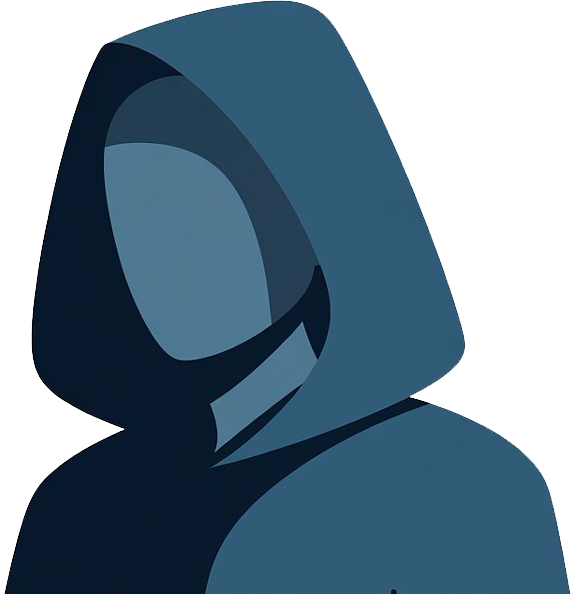
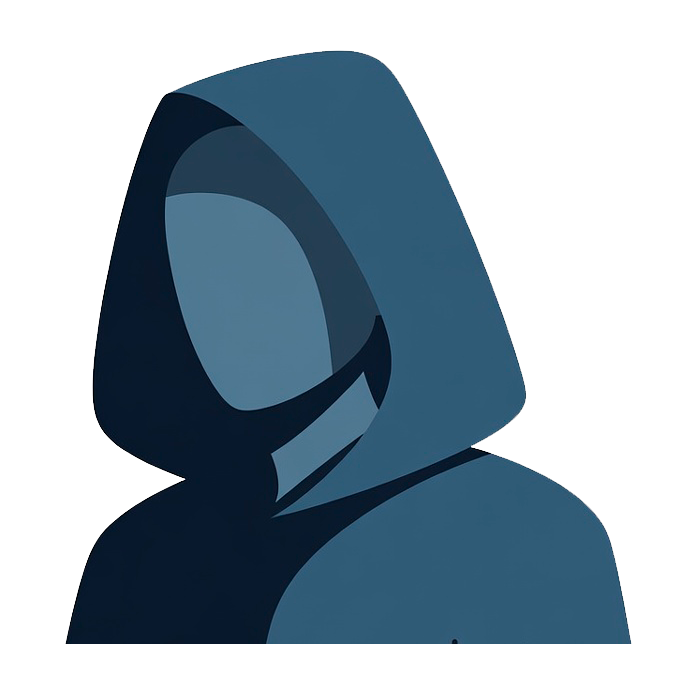
square png

Changed region(s): [[0.0, 0.0, 1.0, 1.0], [0.4458, 0.3939, 0.4755, 0.5152]]

diff --git a/Resistance/resist_png/square.py b/Resistance/resist_png/square.py
@@ -1,0 +1,74 @@
+import os
+from PIL import Image
+
+def process_image(input_path, output_path):
+    """
+    Обрабатывает одно изображение:
+    - К самой длинной грани +100 пикселей (по 50 с каждой стороны)
+    - Затем дополняет до квадрата по второй оси (равномерно с двух сторон)
+    """
+    with Image.open(input_path) as img:
+        # Конвертируем в RGBA для прозрачности
+        if img.mode != 'RGBA':
+            img = img.convert('RGBA')
+        
+        width, height = img.size
+        
+        # Определяем самую длинную грань
+        if width >= height:
+            # Широкая: +50 слева/справа (new_width = width + 100)
+            new_width = width + 100
+            side_size = new_width  # Квадрат по ширине
+            new_height = side_size
+            pad_left = 50
+            pad_right = 50
+            pad_top = (new_height - height) // 2
+            pad_bottom = new_height - height - pad_top
+        else:
+            # Высокая: +50 сверху/снизу (new_height = height + 100)
+            new_height = height + 100
+            side_size = new_height  # Квадрат по высоте
+            new_width = side_size
+            pad_top = 50
+            pad_bottom = 50
+            pad_left = (new_width - width) // 2
+            pad_right = new_width - width - pad_left
+        
+        # Новый прозрачный холст
+        new_img = Image.new('RGBA', (new_width, new_height), (0, 0, 0, 0))
+        
+        # Вставляем оригинал
+        new_img.paste(img, (pad_left, pad_top))
+        
+        # Сохраняем с оптимизацией
+        new_img.save(output_path, 'PNG', optimize=True)
+
+def main():
+    current_dir = os.getcwd()
+    padded_dir = os.path.join(current_dir, "padded")
+    
+    # Создаем папку padded если её нет
+    os.makedirs(padded_dir, exist_ok=True)
+    
+    png_files = [f for f in os.listdir(current_dir) if f.lower().endswith('.png')]
+    
+    if not png_files:
+        print("PNG-файлы в текущей директории не найдены.")
+        return
+    
+    processed = 0
+    for filename in png_files:
+        input_path = os.path.join(current_dir, filename)
+        output_path = os.path.join(padded_dir, filename)
+        
+        try:
+            process_image(input_path, output_path)
+            print(f"Обработан: {filename} → padded/{filename}")
+            processed += 1
+        except Exception as e:
+            print(f"Ошибка при обработке {filename}: {e}")
+    
+    print(f"\nГотово! Обработано файлов: {processed}")
+
+if __name__ == "__main__":
+    main()
